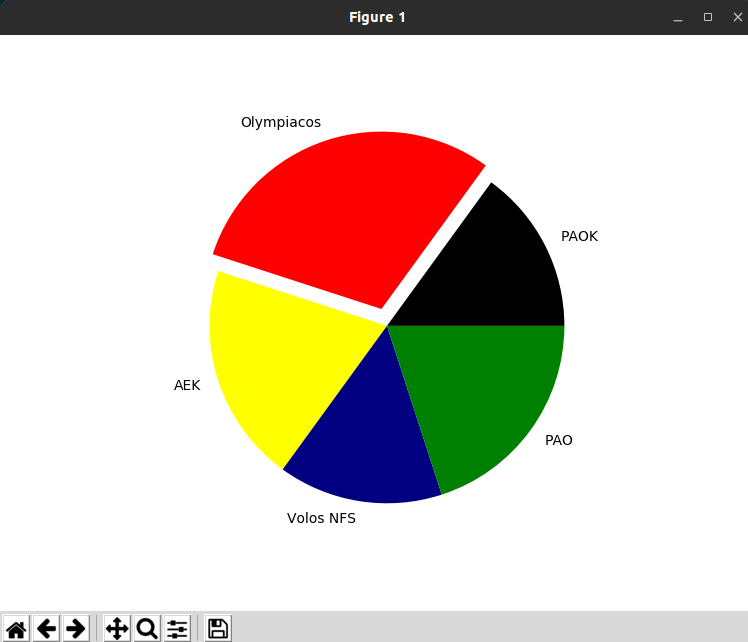
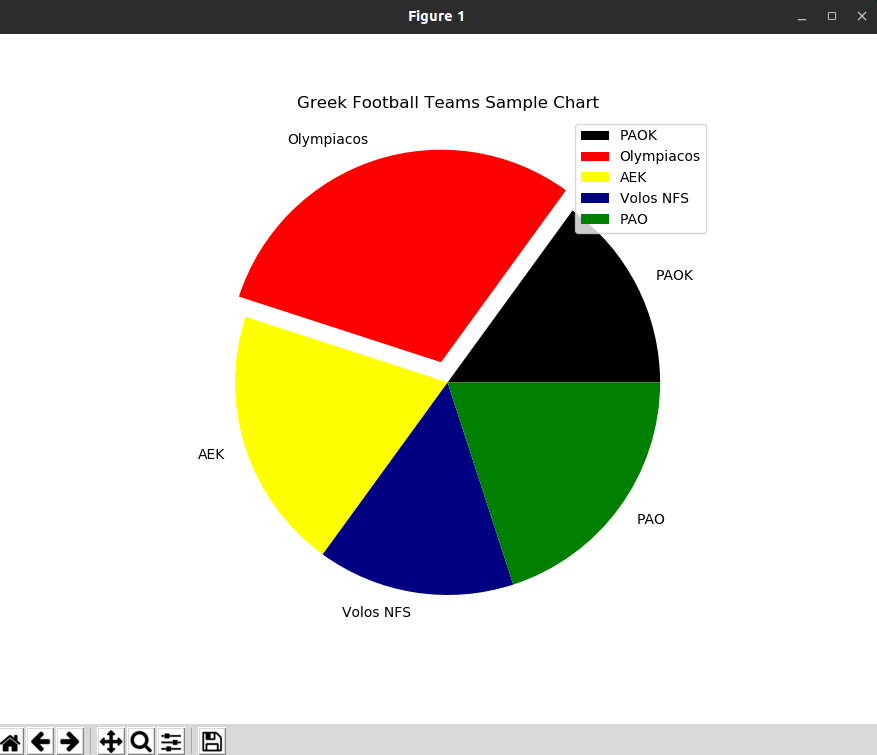
Pie Chart example via matplotlib ..

diff --git a/src/graphs.py b/src/graphs.py
@@ -69,7 +69,9 @@ class PieChart:
         """
         plt.figure(figsize =(10, 7))
         explode = (0, 0.1, 0, 0, 0)
-        plt.pie(self.metrics, explode=explode, labels=self.teams, colors=self.colors)
+        plt.pie(self.metrics, explode=explode, labels=self.teams, colors=self.colors) # , startangle=90)
+        plt.title("Greek Football Teams Sample Chart")
+        plt.legend(self.teams, loc="best")
         plt.show()
     
 
